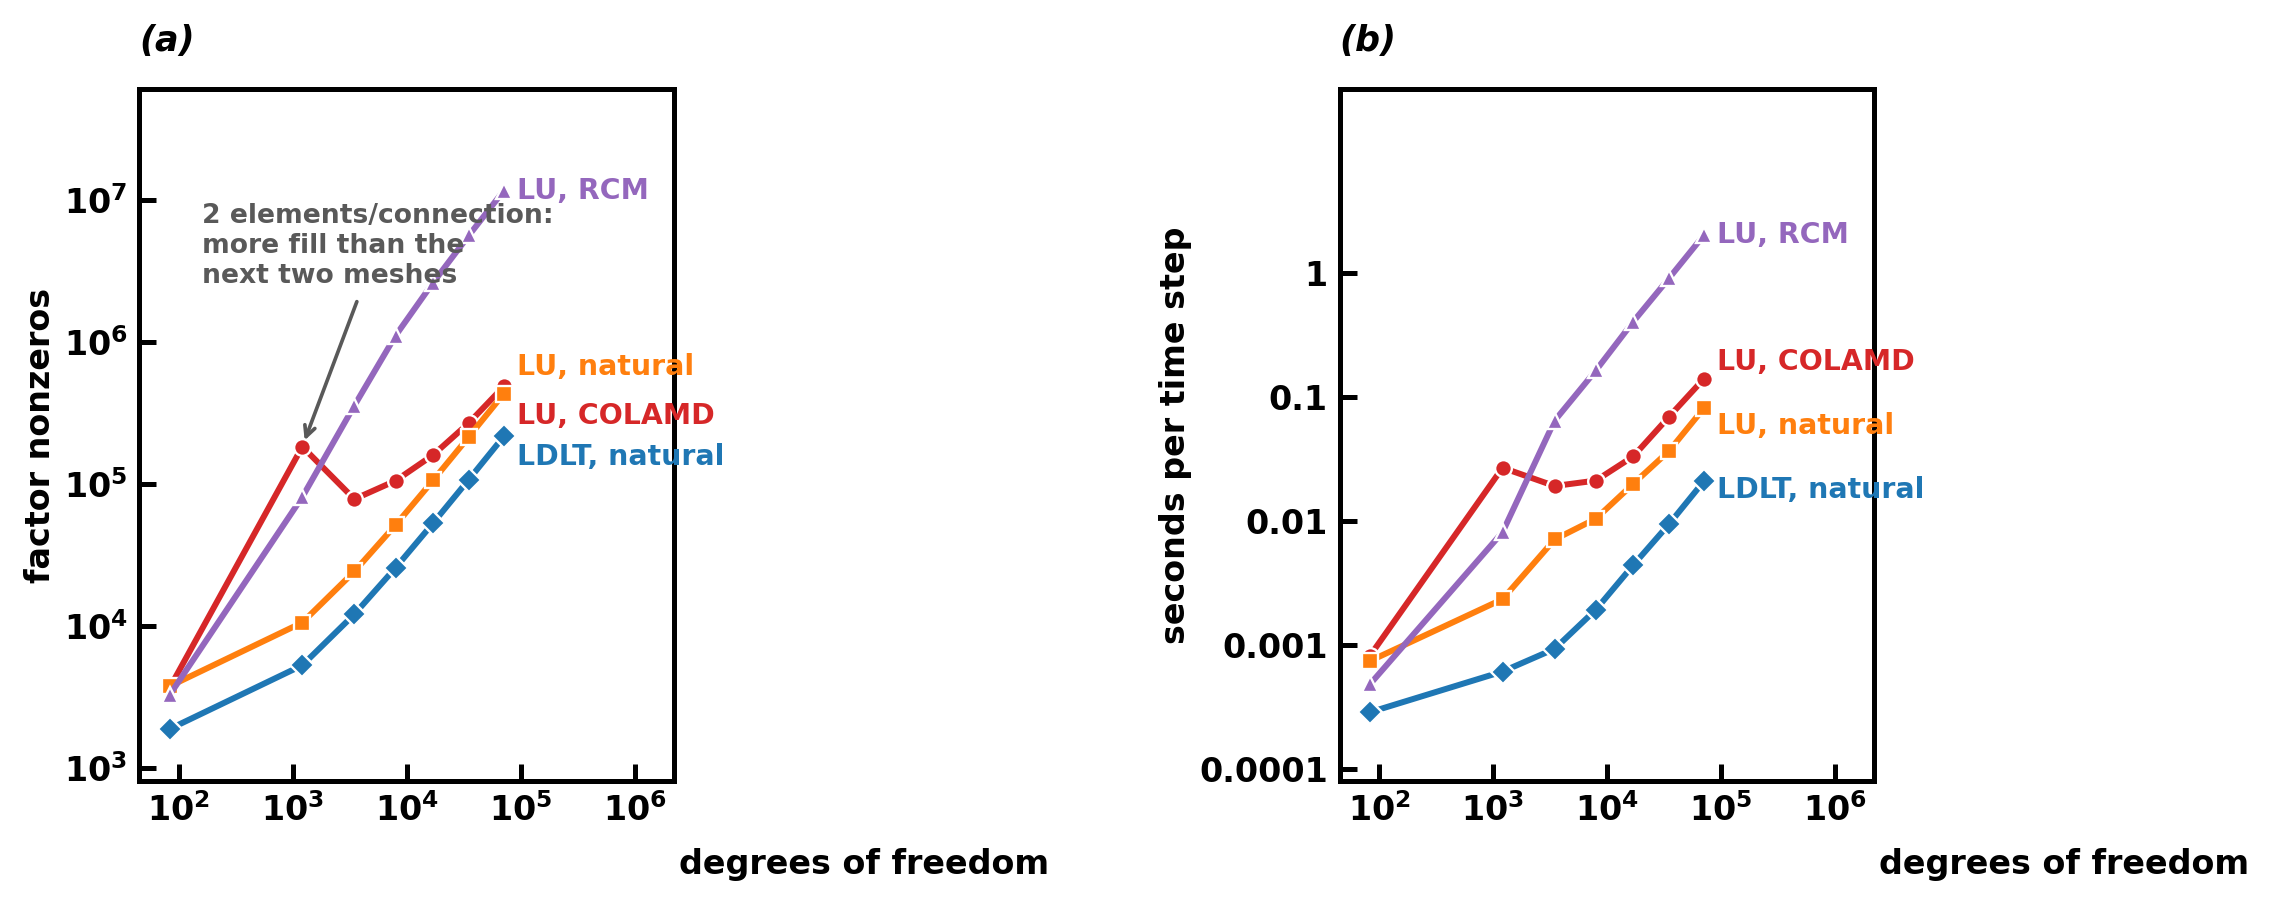
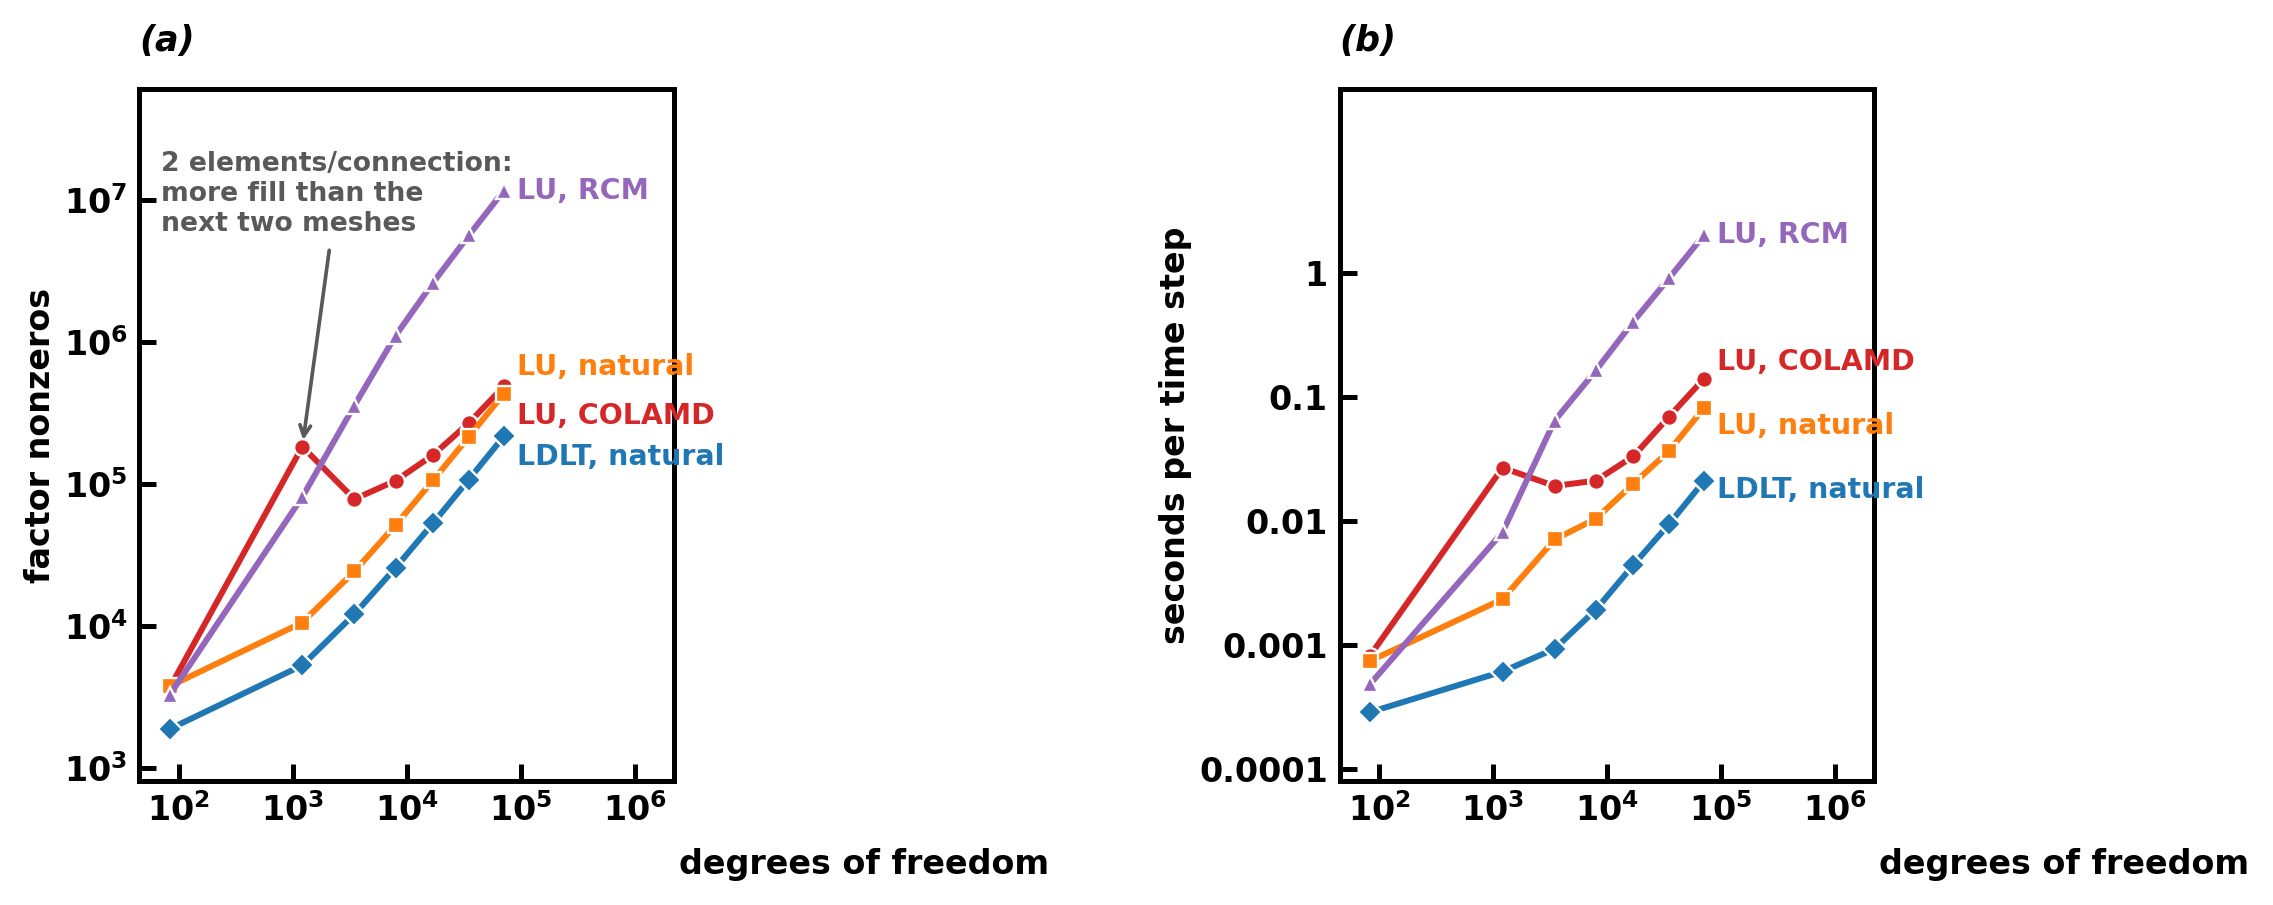
Move the ordering note into the clear corner
The three-line note on the two-element anomaly used to sit where the
RCM curve climbs and the curve ran through its lower lines; the top-left
corner is the one region the rising curves never reach, so the note
moves there and its arrow drops onto the COLAMD point across empty
space.

Changed region(s): [[0.0625, 0.1547, 0.2499, 0.4641]]

diff --git a/scripts/plot-performance-figures.py b/scripts/plot-performance-figures.py
@@ -84,10 +84,12 @@ def ordering_figure(output_dir):
 
     colamd = {int(row["n_dofs"]): float(row["factor_nnz"])
               for row in series["lu_colamd"]}
+    # The top-left corner is the only region the rising curves never
+    # reach, so the note lives there and the arrow drops onto the bump.
     axes[0].annotate("2 elements/connection:\nmore fill than the\n"
                      "next two meshes",
-                     xy=(1213, colamd[1213]), xytext=(160, 2.6e6),
-                     fontsize=8, fontweight="bold", color="0.35",
+                     xy=(1213, colamd[1213]), xytext=(70, 2.2e7),
+                     va="top", fontsize=8, fontweight="bold", color="0.35",
                      arrowprops={"arrowstyle": "->", "color": "0.35",
                                  "linewidth": 1.1})
     axes[0].set_xlim(45, 2.2e6)
